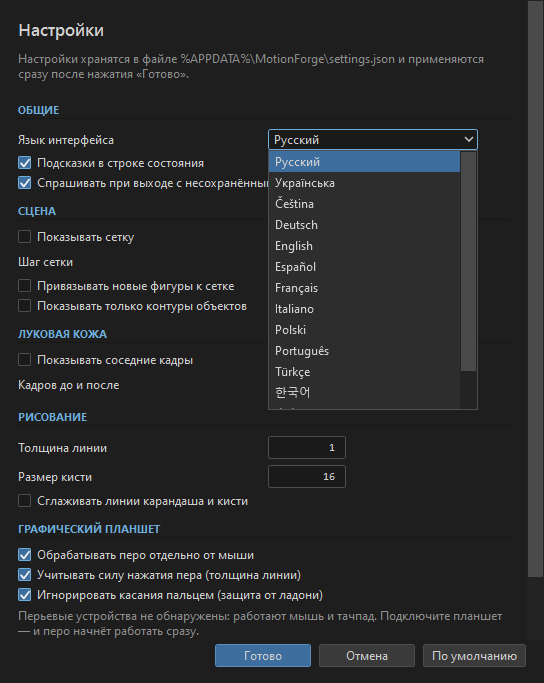
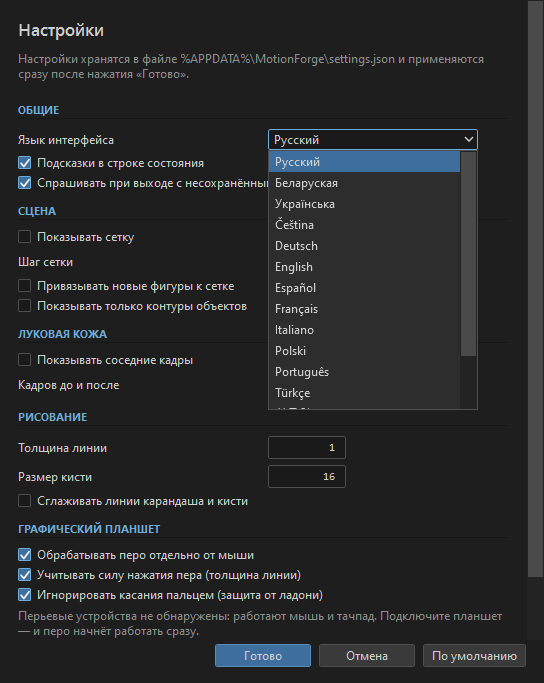
Свои переводы одним файлом: ключ @name, белорусский язык, проверка в автотестах

Changed region(s): [[0.5, 0.246, 0.625, 0.5842], [0.8438, 0.5227, 0.875, 0.5534]]

diff --git a/Services/L10n.cs b/Services/L10n.cs
@@ -19,7 +19,11 @@ public static class L10n
 {
     public const string Fallback = "en";
 
+    /// <summary>Служебный ключ в файле языка: как называется язык в списке настроек.</summary>
+    public const string NameKey = "@name";
+
     private static readonly Dictionary<string, Dictionary<string, string>> Tables = new();
+    private static readonly Dictionary<string, string> Names = new();
     private static readonly Dictionary<string, string> NativeNames = new()
     {
         { "ru", "Русский" },
@@ -51,7 +55,8 @@ public static class L10n
 
     public static string LocalizationFolder => Path.Combine(AppContext.BaseDirectory, "Localization");
 
-    /// <summary>Доступные языки: русский + все найденные файлы Localization/*.json.</summary>
+    /// <summary>Доступные языки: русский + все найденные файлы Localization/*.json.
+    /// Название берётся из ключа "@name" внутри файла, затем из встроенного списка.</summary>
     public static List<(string Code, string Name)> Languages()
     {
         var list = new List<(string, string)> { ("ru", NativeNames["ru"]) };
@@ -63,13 +68,34 @@ public static class L10n
                 {
                     string code = Path.GetFileNameWithoutExtension(file).ToLowerInvariant();
                     if (code == "ru") continue;
-                    string name = NativeNames.TryGetValue(code, out string n) ? n : code;
+                    string name = PeekName(code, file);
+                    if (string.IsNullOrWhiteSpace(name)) name = code;
                     list.Add((code, name));
                 }
             }
         }
         catch { }
         return list.OrderBy(l => l.Item1 == "ru" ? 0 : 1).ThenBy(l => l.Item2, StringComparer.CurrentCulture).ToList();
+    }
+
+    /// <summary>Название языка: сначала "@name" из файла, затем встроенный список, иначе код.</summary>
+    private static string PeekName(string code, string file)
+    {
+        if (Names.TryGetValue(code, out string cached)) return cached;
+        string name = null;
+        try
+        {
+            using (var doc = JsonDocument.Parse(File.ReadAllText(file, Encoding.UTF8)))
+            {
+                if (doc.RootElement.ValueKind == JsonValueKind.Object &&
+                    doc.RootElement.TryGetProperty(NameKey, out var value) && value.ValueKind == JsonValueKind.String)
+                    name = value.GetString();
+            }
+        }
+        catch { /* битый файл — покажем хотя бы код */ }
+        if (string.IsNullOrWhiteSpace(name) && NativeNames.TryGetValue(code, out string known)) name = known;
+        Names[code] = name ?? code;
+        return Names[code];
     }
 
     public static void SetLanguage(string code)
@@ -103,6 +129,7 @@ public static class L10n
     public static string DumpTemplate(string code)
     {
         var table = new SortedDictionary<string, string>(StringComparer.CurrentCulture);
+        table[NameKey] = "";                      // название языка для списка в настройках
         foreach (string key in Requested) table[key] = "";
         string path = Path.Combine(Path.GetTempPath(), "motionforge-lang-" + code + ".json");
         var options = new JsonSerializerOptions { WriteIndented = true, Encoder = System.Text.Encodings.Web.JavaScriptEncoder.UnsafeRelaxedJsonEscaping };

diff --git a/Services/SelfTest.cs b/Services/SelfTest.cs
@@ -383,6 +383,24 @@ public static class SelfTest
             Check("В каждом языке не меньше 40 строк", thin.Count == 0,
                 thin.Count == 0 ? languages.Count + " языков, " + totalKeys + " строк" : string.Join(", ", thin));
 
+            // Свой перевод добавляется простым копированием файла — проверим на живом примере.
+            string dropIn = Path.Combine(L10n.LocalizationFolder, "zz.json");
+            try
+            {
+                File.WriteAllText(dropIn, "{\"@name\":\"Testlang\",\"Файл\":\"Zz\"}", new UTF8Encoding(false));
+                var withNew = L10n.Languages();
+                var found = withNew.Find(l => l.Code == "zz");
+                Check("Новый файл перевода появляется в списке языков",
+                    found.Code == "zz" && found.Name == "Testlang", found.Code + " / " + found.Name);
+
+                L10n.SetLanguage("zz");
+                Check("Новый язык переводит свои строки, остальное берёт из английского",
+                    L10n.T("Файл") == "Zz" && L10n.T("Фон сцены") == "Stage background",
+                    L10n.T("Файл") + " / " + L10n.T("Фон сцены"));
+                L10n.SetLanguage("ru");
+            }
+            finally { try { File.Delete(dropIn); } catch { } }
+
             var list = L10n.Languages();
             if (list.Count > 1)
             {

diff --git a/README.md b/README.md
@@ -42,13 +42,13 @@
 * **Графический планшет**: перо обрабатывается отдельно от мыши, сила нажатия задаёт толщину
   линии (WPF `StylusPoint.PressureFactor`), перевёрнутое перо работает как ластик, касания
   пальцем можно игнорировать (защита от ладони).
-* **Языки интерфейса**: русский и английский переведены полностью, ещё 12 языков
-  (украинский, немецкий, французский, испанский, итальянский, португальский, польский,
-  чешский, турецкий, китайский, японский, корейский) — базовый набор панелей и меню,
-  остальное подставляется из английского.
+* **Языки интерфейса**: русский и английский переведены полностью, ещё 13 языков
+  (белорусский, украинский, немецкий, французский, испанский, итальянский, португальский,
+  польский, чешский, турецкий, китайский, японский, корейский) — базовый набор панелей и
+  меню, остальное подставляется из английского. Свой язык добавляется одним JSON-файлом.
 * Настраиваемая раскладка: панели можно скрывать и перетаскивать (разделители между доками).
 * Автосохранение и восстановление сессии, тёмная тема, статусная строка с координатами.
-* Встроенная **самопроверка** (`--selftest`): 101 проверка ядра, геометрии, отмены,
+* Встроенная **самопроверка** (`--selftest`): 103 проверки ядра, геометрии, отмены,
   сохранения/загрузки, локализации, настроек и всех экспортёров.
 
 ### Экспорт
@@ -94,16 +94,27 @@
 
 ```jsonc
 // Localization/xx.json
-{ "Файл": "…", "Правка": "…" }
+{
+  "@name": "Мой язык",     // как язык называется в списке настроек
+  "Файл": "…",
+  "Правка": "…"
+}
 ```
 
-Файл просто копируется в выходную папку рядом с `MotionForge.exe` и появляется в списке языков
-в настройках. Если строки в файле нет, берётся английская, затем исходная русская — поэтому
-перевод можно делать по частям. Выгрузить список всех собранных строк для нового языка:
+Файл просто копируется в выходную папку рядом с `MotionForge.exe` — язык сразу появляется
+в списке в настройках, пересобирать программу не нужно. Если строки в файле нет, берётся
+английская, затем исходная русская, поэтому перевод можно делать по частям: достаточно
+перевести то, что нужно прямо сейчас. Название языка (`"@name"`) необязательно — тогда
+подставится встроенное название или код файла.
+
+Заготовку со всеми строками интерфейса можно выгрузить командой:
 
 ```powershell
 dotnet run -c Release --project MotionForge -- --lang-template
 ```
+
+Готовый набор: `ru` (встроен) и `en` (554 строки) — целиком; `be`, `uk`, `de`, `fr`, `es`,
+`it`, `pt`, `pl`, `cs`, `tr`, `zh`, `ja`, `ko` — меню, панели, настройки и заголовки диалогов.
 
 ---
 
